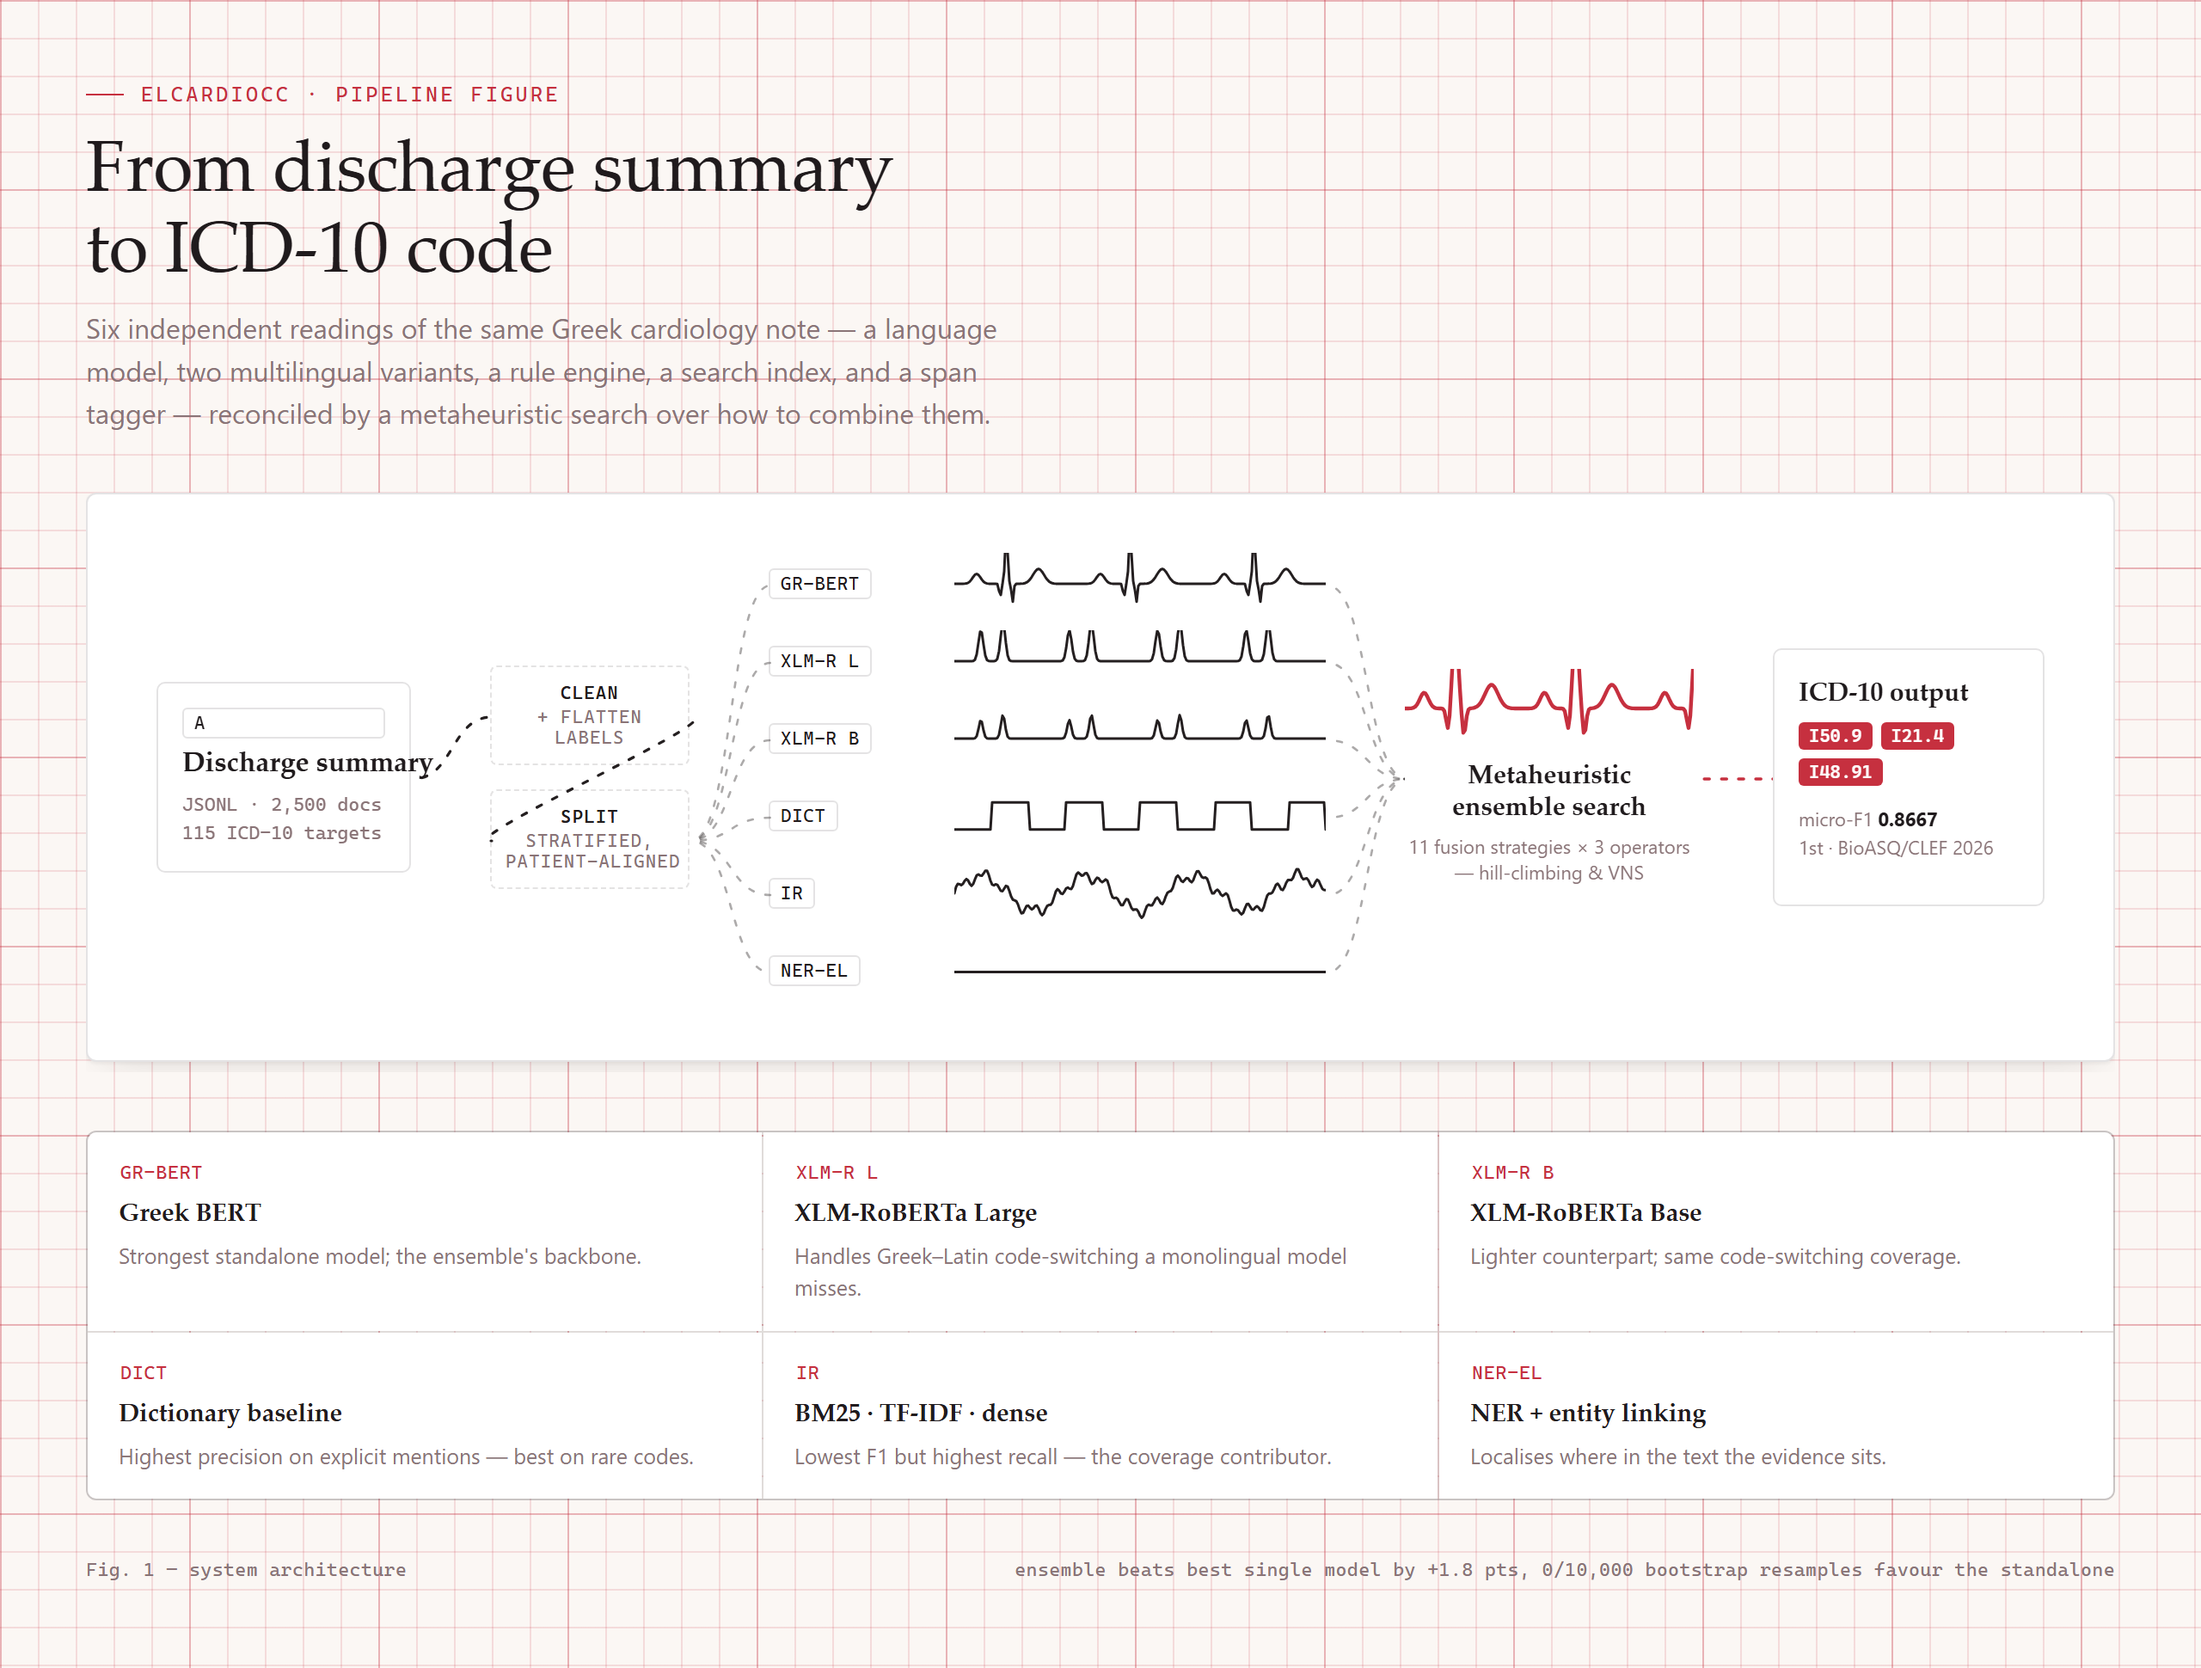
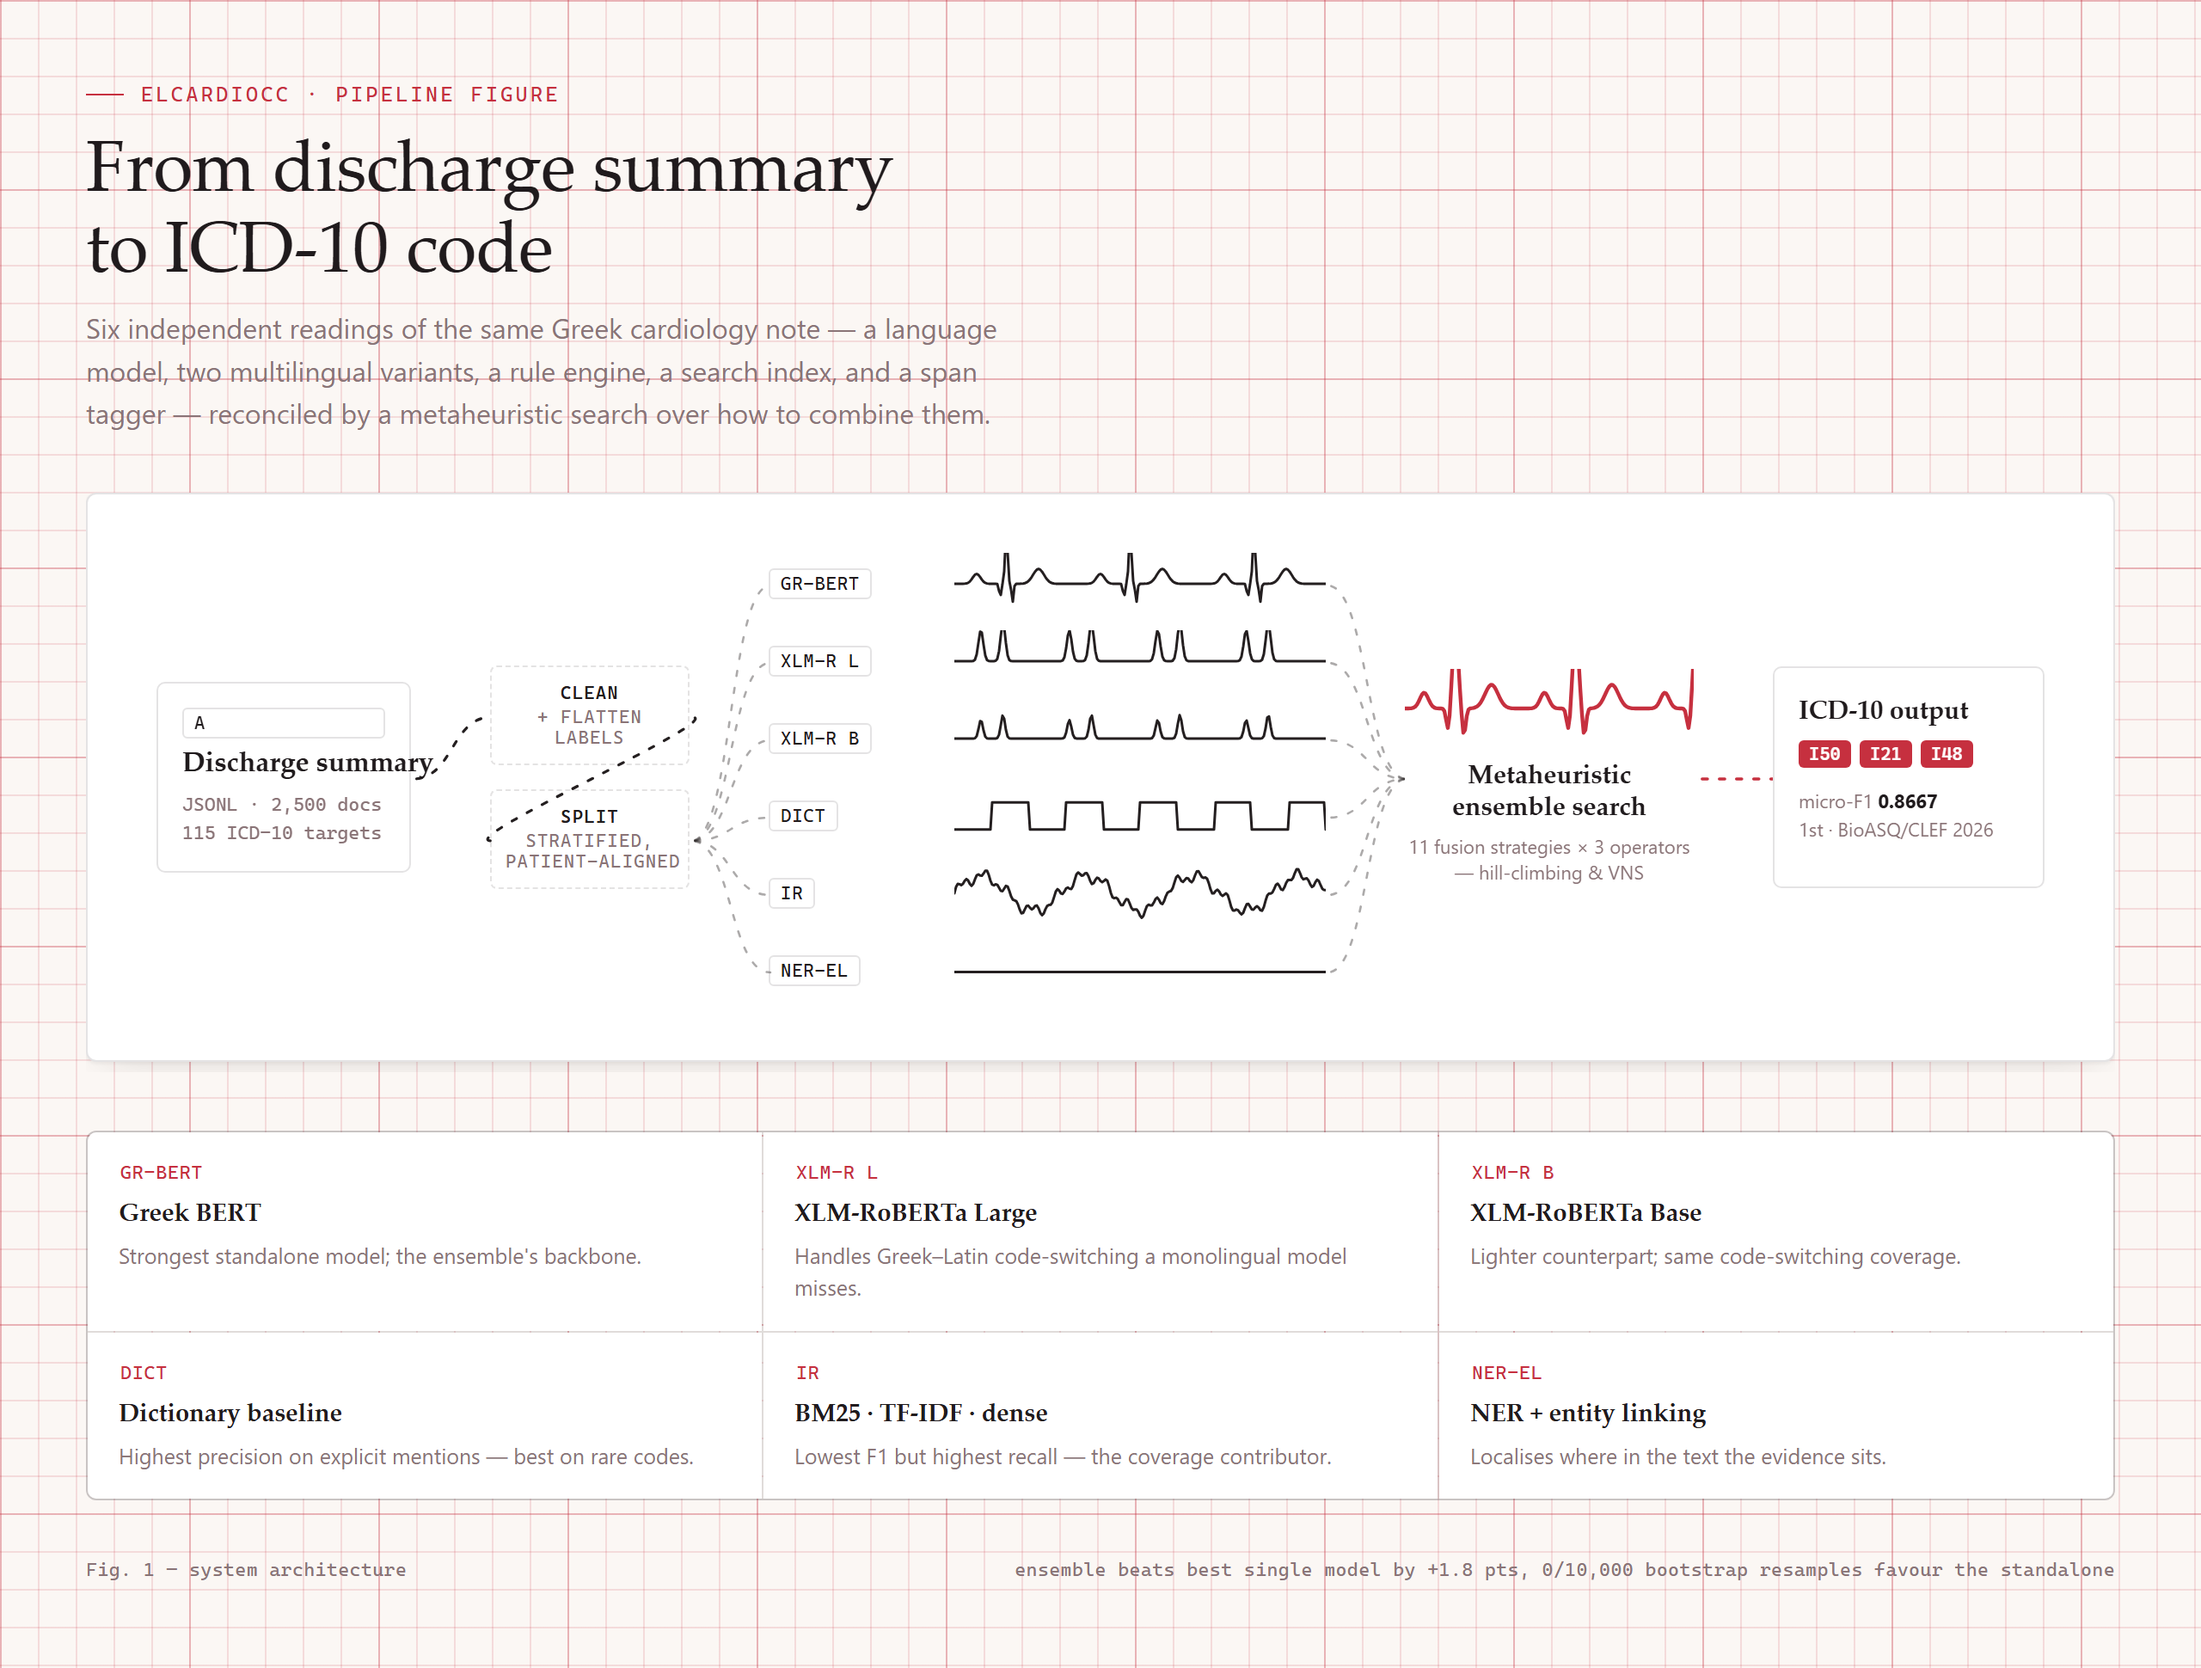
Correct the ICD-10 codes in the pipeline figure, drop the medal emoji
The output chips read I50.9 / I21.4 / I48.91, a granularity this system never
predicts: the labelset is 115 three-character codes and ranges with no
subdivisions, and I48.91 is ICD-10-CM formatting. They now read I50 / I21 /
I48 -- heart failure, acute MI, atrial fibrillation -- matching the scenario
in the animation above.

Move the bold onto "1st place" so the subtitle keeps its weight without the
emoji carrying it.

Changed region(s): [[0.8125, 0.4021, 0.9062, 0.5258]]

diff --git a/README.md b/README.md
@@ -2,7 +2,7 @@
 
 <p align="center">
   <b>Automatic ICD-10 coding of Greek cardiology discharge summaries.</b><br>
-  🥇 1st place at <b>BioASQ / CLEF ELCardioCC 2026</b> — micro-F1 <b>0.8667</b> on the official test set.
+  <b>1st place</b> at BioASQ / CLEF ELCardioCC 2026 — micro-F1 <b>0.8667</b> on the official test set.
 </p>
 
 <p align="center">
